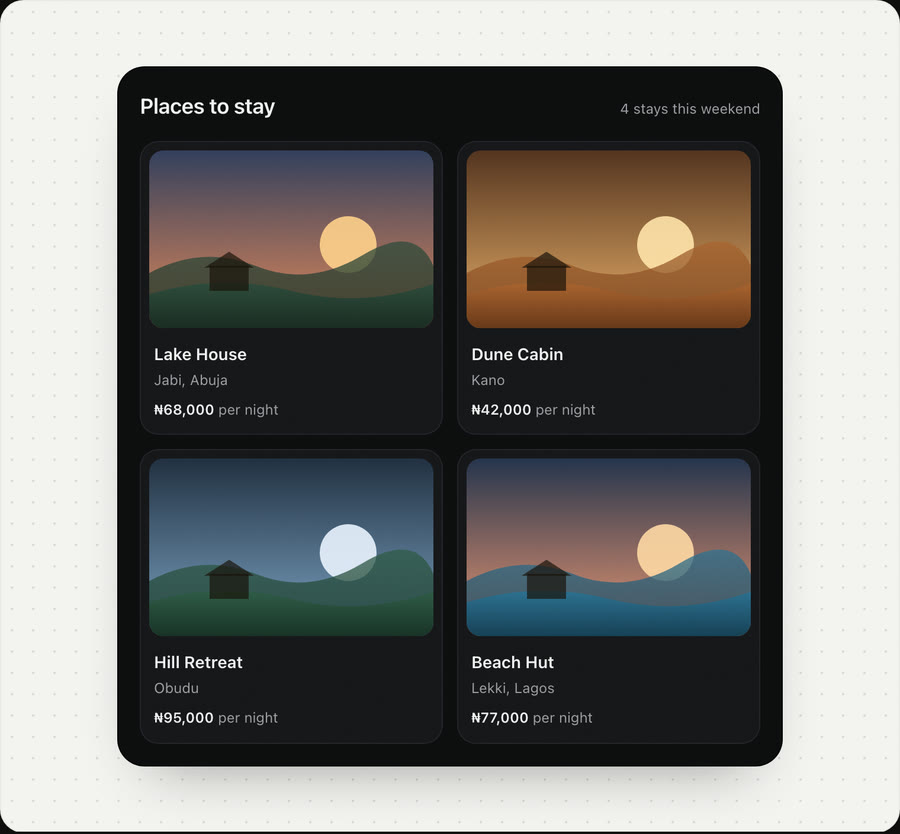
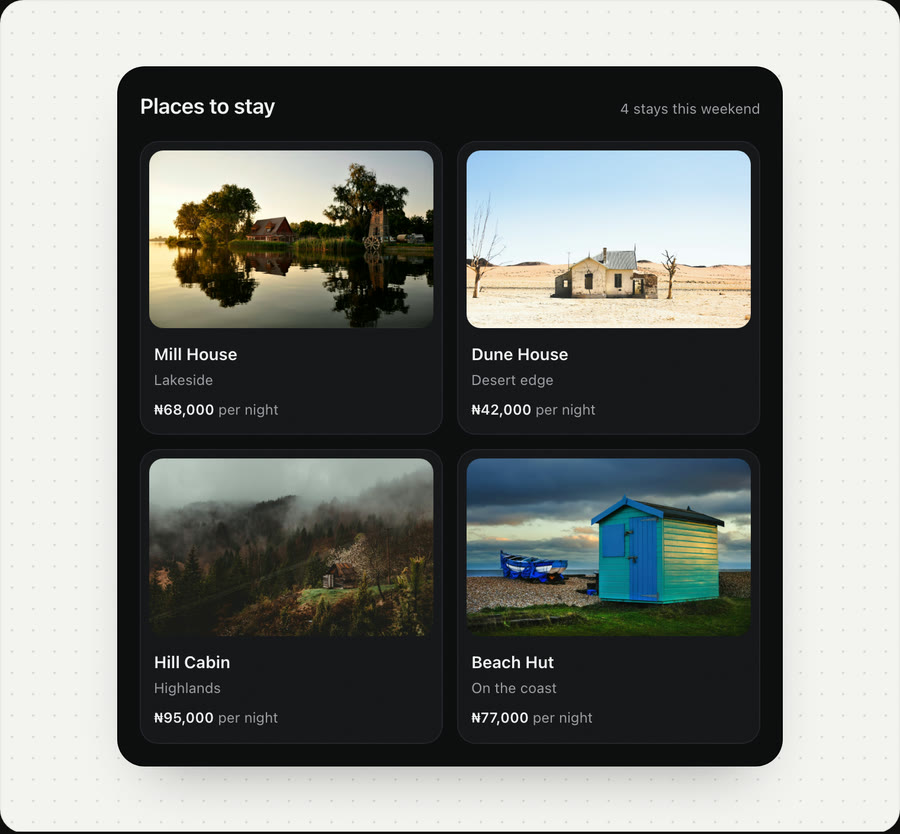
Playground: remove Prayer times, real Unsplash photos in Card to detail, plain calendar events

Changed region(s): [[0.1556, 0.1559, 0.84, 0.4676], [0.1556, 0.53, 0.84, 0.8417], [0.5289, 0.8106, 0.6222, 0.8417]]

diff --git a/components/lab/CardToDetail.tsx b/components/lab/CardToDetail.tsx
@@ -6,28 +6,18 @@ import s from "./CardToDetail.module.css";
 import { Icon } from "./icons";
 import { tap, useStill } from "./util";
 
-type Stay = { id: string; name: string; place: string; price: string; nights: string; about: string; sky: [string, string]; land: [string, string]; sun: string };
+type Stay = { id: string; name: string; place: string; price: string; nights: string; about: string; photo: string; alt: string };
+// Photos from Unsplash (Unsplash License): Cosmin Gurau, Rémi Jacquaint, Filip Zrnzević, Zoltan Tasi.
 const stays: Stay[] = [
-  { id: "a", name: "Lake House", place: "Jabi, Abuja", price: "₦68,000", nights: "per night", about: "Two rooms over the water, with a deck that catches the evening light. Boats leave from the jetty at the end of the garden.", sky: ["#2a3b5c", "#e88a5a"], land: ["#2e4a3c", "#16261d"], sun: "#ffcf8a" },
-  { id: "b", name: "Dune Cabin", place: "Kano", price: "₦42,000", nights: "per night", about: "A clay cabin at the edge of the city, cool inside all afternoon. Breakfast is brought to the door at seven.", sky: ["#4b2d1c", "#f0b26b"], land: ["#a8622f", "#5a2f15"], sun: "#ffe2a8" },
-  { id: "c", name: "Hill Retreat", place: "Obudu", price: "₦95,000", nights: "per night", about: "High on the plateau, where mornings start in the clouds. A path from the porch leads to the canopy walk.", sky: ["#1d2a3a", "#7fa6c9"], land: ["#2f5a46", "#132a20"], sun: "#e9f2ff" },
-  { id: "d", name: "Beach Hut", place: "Lekki, Lagos", price: "₦77,000", nights: "per night", about: "A wooden hut a short walk from the sand, with a hammock, an outdoor shower and the sound of the sea at night.", sky: ["#1b2f4a", "#f39a74"], land: ["#2d6f8f", "#123649"], sun: "#ffd7a3" },
+  { id: "a", name: "Mill House", place: "Lakeside", price: "₦68,000", nights: "per night", photo: "/playground/stays/lake.jpg", alt: "A wooden house and an old mill on a still lake at sunset", about: "Two rooms over the water, with a deck that catches the evening light. A rowing boat waits at the end of the garden." },
+  { id: "b", name: "Dune House", place: "Desert edge", price: "₦42,000", nights: "per night", photo: "/playground/stays/desert.jpg", alt: "A small stone house alone on pale sand under a clear sky", about: "A stone house where the sand begins, cool inside all afternoon. Breakfast is brought to the door at seven." },
+  { id: "c", name: "Hill Cabin", place: "Highlands", price: "₦95,000", nights: "per night", photo: "/playground/stays/hill.jpg", alt: "A wooden cabin on a green hillside, with forest and low cloud behind it", about: "High on the hill, where mornings start in the clouds. A path from the porch runs down through the forest." },
+  { id: "d", name: "Beach Hut", place: "On the coast", price: "₦77,000", nights: "per night", photo: "/playground/stays/beach.jpg", alt: "A teal wooden beach hut beside a fishing boat under a stormy sky", about: "A wooden hut a few steps from the shore, with an outdoor shower and the sound of the sea at night." },
 ];
 
-function Art({ st }: { st: Stay }) {
-  return (
-    <svg viewBox="0 0 160 110" preserveAspectRatio="xMidYMid slice" className={s.art} aria-hidden="true">
-      <defs>
-        <linearGradient id={`sky-${st.id}`} x1="0" y1="0" x2="0" y2="1"><stop offset="0" stopColor={st.sky[0]} /><stop offset="1" stopColor={st.sky[1]} /></linearGradient>
-        <linearGradient id={`land-${st.id}`} x1="0" y1="0" x2="0" y2="1"><stop offset="0" stopColor={st.land[0]} /><stop offset="1" stopColor={st.land[1]} /></linearGradient>
-      </defs>
-      <rect width="160" height="110" fill={`url(#sky-${st.id})`} />
-      <circle cx="112" cy="58" r="16" fill={st.sun} opacity=".9" />
-      <path d="M0 74 Q30 58 60 70 T120 64 T160 70 V110 H0z" fill={`url(#land-${st.id})`} opacity=".75" />
-      <path d="M0 86 Q40 74 80 84 T160 80 V110 H0z" fill={`url(#land-${st.id})`} />
-      <rect x="34" y="70" width="22" height="14" fill="#1a120c" opacity=".7" /><path d="M31 71 L45 62 L59 71z" fill="#1a120c" opacity=".7" />
-    </svg>
-  );
+function Photo({ st, alt }: { st: Stay; alt?: boolean }) {
+  // `layout` lets Motion correct the photo's scale while its frame changes shape, so it never stretches mid-flight.
+  return <motion.img layout src={st.photo} alt={alt ? st.alt : ""} width={1200} height={750} className={s.art} draggable={false} />;
 }
 
 export default function CardToDetail() {
@@ -61,7 +51,7 @@ export default function CardToDetail() {
                 onClick={(e) => { lastCard.current = e.currentTarget; setOpen(st); tap(8); }}
                 aria-label={`${st.name}, ${st.place}, ${st.price} ${st.nights}. Open`}
               >
-                <motion.span layoutId={`img-${st.id}`} className={s.imgWrap} style={{ borderRadius: 12 }}><Art st={st} /></motion.span>
+                <motion.span layoutId={`img-${st.id}`} className={s.imgWrap} style={{ borderRadius: 12 }}><Photo st={st} /></motion.span>
                 <span className={s.meta}>
                   <motion.b layoutId={`name-${st.id}`} className={s.name}>{st.name}</motion.b>
                   <motion.span layoutId={`place-${st.id}`} className={s.place}>{st.place}</motion.span>
@@ -77,7 +67,7 @@ export default function CardToDetail() {
             <>
               <motion.div key="dim" className={s.dim} initial={{ opacity: 0 }} animate={{ opacity: 1 }} exit={{ opacity: 0 }} transition={{ duration: still ? 0 : 0.2 }} onClick={() => setOpen(null)} aria-hidden="true" />
               <motion.div key="detail" layoutId={`card-${open.id}`} className={s.detail} style={{ borderRadius: 20 }} role="dialog" aria-modal="true" aria-label={open.name}>
-                <motion.span layoutId={`img-${open.id}`} className={s.hero} style={{ borderRadius: 14 }}><Art st={open} /></motion.span>
+                <motion.span layoutId={`img-${open.id}`} className={s.hero} style={{ borderRadius: 14 }}><Photo st={open} alt /></motion.span>
                 <div className={s.detailBody}>
                   <div className={s.detailTop}>
                     <div>

diff --git a/components/lab/WeekCalendar.module.css b/components/lab/WeekCalendar.module.css
@@ -19,14 +19,14 @@
 .now { position: absolute; height: 2px; background: #ff5c4d; z-index: 3; pointer-events: none; }
 .now i { position: absolute; left: -4px; top: -3px; width: 8px; height: 8px; border-radius: 50%; background: #ff5c4d; }
 
-/* Events: a tinted fill with a solid left bar; they settle into their slot on a short ease-out */
-.ev { position: absolute; z-index: 2; box-sizing: border-box; display: grid; align-content: start; gap: 1px; padding: 5px 7px 6px 9px; border-radius: 7px; overflow: hidden; cursor: grab; font-size: 11.5px; line-height: 1.3; -webkit-user-select: none; user-select: none; touch-action: none;
-  background: color-mix(in srgb, var(--tone) 22%, var(--w-raise)); color: color-mix(in srgb, var(--tone) 30%, #fff); box-shadow: inset 3px 0 0 var(--tone);
+/* Events: a plain tinted fill; they settle into their slot on a short ease-out */
+.ev { position: absolute; z-index: 2; box-sizing: border-box; display: grid; align-content: start; gap: 1px; padding: 5px 8px 6px; border-radius: 8px; overflow: hidden; cursor: grab; font-size: 11.5px; line-height: 1.3; -webkit-user-select: none; user-select: none; touch-action: none;
+  background: color-mix(in srgb, var(--tone) 28%, var(--w-raise)); color: color-mix(in srgb, var(--tone) 25%, #fff);
   transition: top 160ms cubic-bezier(0.23, 1, 0.32, 1), left 160ms cubic-bezier(0.23, 1, 0.32, 1), height 160ms cubic-bezier(0.23, 1, 0.32, 1), box-shadow 160ms ease, scale 160ms ease; }
 .ev b { font-weight: 600; color: #fff; white-space: nowrap; overflow: hidden; text-overflow: ellipsis; }
 .ev span { white-space: nowrap; overflow: hidden; text-overflow: ellipsis; }
 /* While dragging it lifts: a little larger, with a shadow, and follows the snap without lag */
-.ev[data-drag="true"] { z-index: 4; cursor: grabbing; scale: 1.03; transition-duration: 70ms; box-shadow: inset 3px 0 0 var(--tone), 0 10px 24px -6px rgb(0 0 0 / .6), 0 0 0 1px color-mix(in srgb, var(--tone) 60%, transparent); }
+.ev[data-drag="true"] { z-index: 4; cursor: grabbing; scale: 1.03; transition-duration: 70ms; box-shadow: 0 10px 24px -6px rgb(0 0 0 / .6); }
 .ev:focus-visible { outline: 2px solid #fff; outline-offset: 1px; }
 .handle { position: absolute; left: 0; right: 0; bottom: 0; height: 8px; cursor: ns-resize; }
 .handle::after { content: ""; position: absolute; left: 50%; bottom: 3px; width: 18px; height: 3px; translate: -50% 0; border-radius: 3px; background: currentColor; opacity: 0; transition: opacity 120ms ease; }

diff --git a/lib/lab.ts b/lib/lab.ts
@@ -40,11 +40,6 @@ export const lab: LabPiece[] = [
     notes: ["The bar is the song's waveform. Drag anywhere on it to scrub.", "Play and pause swap with a quick scale and fade.", "The played part lights up as it goes."],
   },
   {
-    slug: "prayer-times", title: "Prayer times", kind: "Mobile", frame: "phone", live: true,
-    question: "What does someone need in the minute before the next prayer?",
-    notes: ["A ring counts down to the next prayer, and the list marks where you are in the day.", "Drag the compass to turn it. The arrow always points to the qibla, worked out from Abuja's position.", "The times are a sample day for Abuja, not live times."],
-  },
-  {
     slug: "smart-home", title: "Smart home", kind: "Mobile", frame: "phone", live: true,
     question: "Can a room's controls fit on one screen without menus?",
     notes: ["Drag the dial around its arc to set the temperature. The arc runs from cool blue to warm amber, and the room\u2019s light follows it.", "The tiles are frosted glass, and the lamp in the corner brightens with the lights slider.", "Every control works by keyboard: arrows on the dial, Space on the tiles."],
@@ -92,7 +87,7 @@ export const lab: LabPiece[] = [
   {
     slug: "card-to-detail", title: "Card to detail", kind: "Motion", frame: "stage", live: true,
     question: "Can opening a page feel like picking up the card you tapped?",
-    notes: ["Tap a stay. The card grows into the page, and its picture, name and price travel to their new places instead of disappearing.", "Text that only lives on the detail fades in after the move, and leaves first on the way back, so nothing overlaps mid-flight.", "Close with the button, a tap outside or Escape, and it shrinks back into the card it came from. Focus goes back there too."],
+    notes: ["Tap a stay. The card grows into the page, and its picture, name and price travel to their new places instead of disappearing.", "Text that only lives on the detail fades in after the move, and leaves first on the way back, so nothing overlaps mid-flight.", "Close with the button, a tap outside or Escape, and it shrinks back into the card it came from. Focus goes back there too.", "Photos from Unsplash by Cosmin Gurau, Rémi Jacquaint, Filip Zrnzević and Zoltan Tasi."],
   },
   {
     slug: "button-states", title: "Button states", kind: "Motion", frame: "stage", live: true,

diff --git a/app/playground/[slug]/page.tsx b/app/playground/[slug]/page.tsx
@@ -9,7 +9,7 @@ export const dynamicParams = false;
 
 // About 70% of the Playground is dark. Dark phone screens get a white status bar,
 // and dark web pieces get a dark window bar.
-const darkScreens = new Set(["card-stack", "swipe-to-pay", "music-scrubber", "prayer-times", "smart-home", "command-palette", "ai-prompt", "money-dashboard", "week-calendar", "spring-tuner", "card-to-detail", "button-states"]);
+const darkScreens = new Set(["card-stack", "swipe-to-pay", "music-scrubber", "smart-home", "command-palette", "ai-prompt", "money-dashboard", "week-calendar", "spring-tuner", "card-to-detail", "button-states"]);
 // Live Activity draws its own island, because the island is the experiment.
 const ownIsland = new Set<string>();
 

diff --git a/components/lab/CardToDetail.module.css b/components/lab/CardToDetail.module.css
@@ -8,7 +8,7 @@
 .card:focus-visible { outline: 2px solid #4c8dff; outline-offset: 2px; }
 .imgWrap, .hero { display: block; overflow: hidden; }
 .imgWrap { aspect-ratio: 16 / 10; }
-.art { display: block; width: 100%; height: 100%; }
+.art { display: block; width: 100%; height: 100%; object-fit: cover; background: #232328; -webkit-user-drag: none; user-select: none; }
 .meta { display: grid; gap: 1px; padding: 0 4px; }
 .name { font-size: 14px; font-weight: 600; justify-self: start; }
 .place { display: inline-flex; align-items: center; gap: 3px; font-size: 12px; color: #9d9da3; justify-self: start; }

diff --git a/app/page.tsx b/app/page.tsx
@@ -42,7 +42,7 @@ function Card({ project }: { project: Project }) {
 }
 
 // Six experiments chosen to show range: mobile, web, motion, fintech and culture.
-const featuredLab = ["money-dashboard", "card-stack", "spring-tuner", "swipe-to-pay", "week-calendar", "prayer-times"].map((slug) => lab.find((p) => p.slug === slug)!);
+const featuredLab = ["money-dashboard", "card-stack", "spring-tuner", "swipe-to-pay", "week-calendar", "card-to-detail"].map((slug) => lab.find((p) => p.slug === slug)!);
 
 export default function Home() {
   const projects = getProjects();

diff --git a/components/lab/pieces.tsx b/components/lab/pieces.tsx
@@ -12,7 +12,6 @@ export const pieces: Record<string, ComponentType> = {
   flashcards: dynamic(() => import("./Flashcards")),
   "ai-prompt": dynamic(() => import("./AiPrompt")),
   "music-scrubber": dynamic(() => import("./MusicScrubber")),
-  "prayer-times": dynamic(() => import("./PrayerTimes")),
   "smart-home": dynamic(() => import("./SmartHome")),
   "money-dashboard": dynamic(() => import("./MoneyDashboard")),
   "data-table": dynamic(() => import("./DataTable")),
